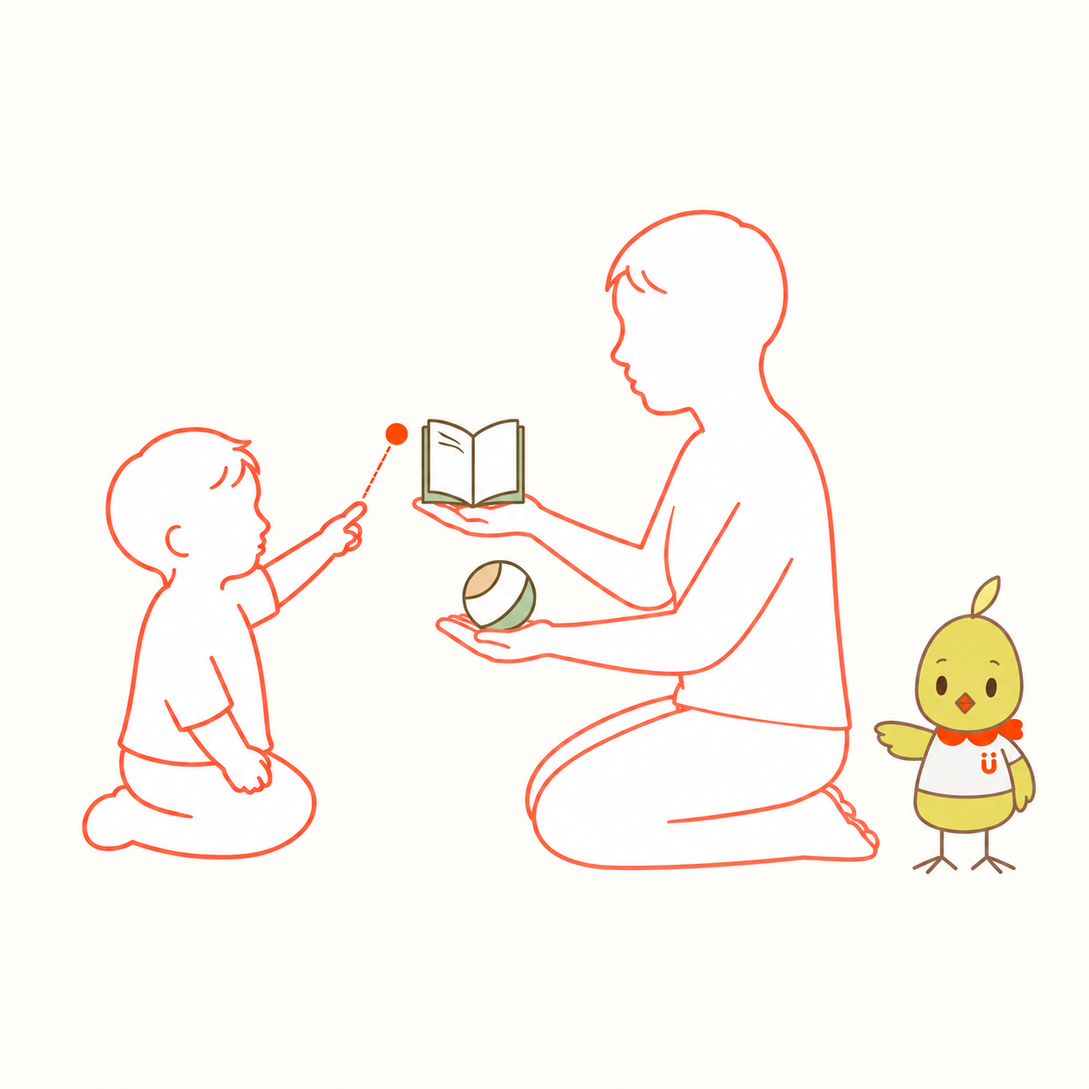
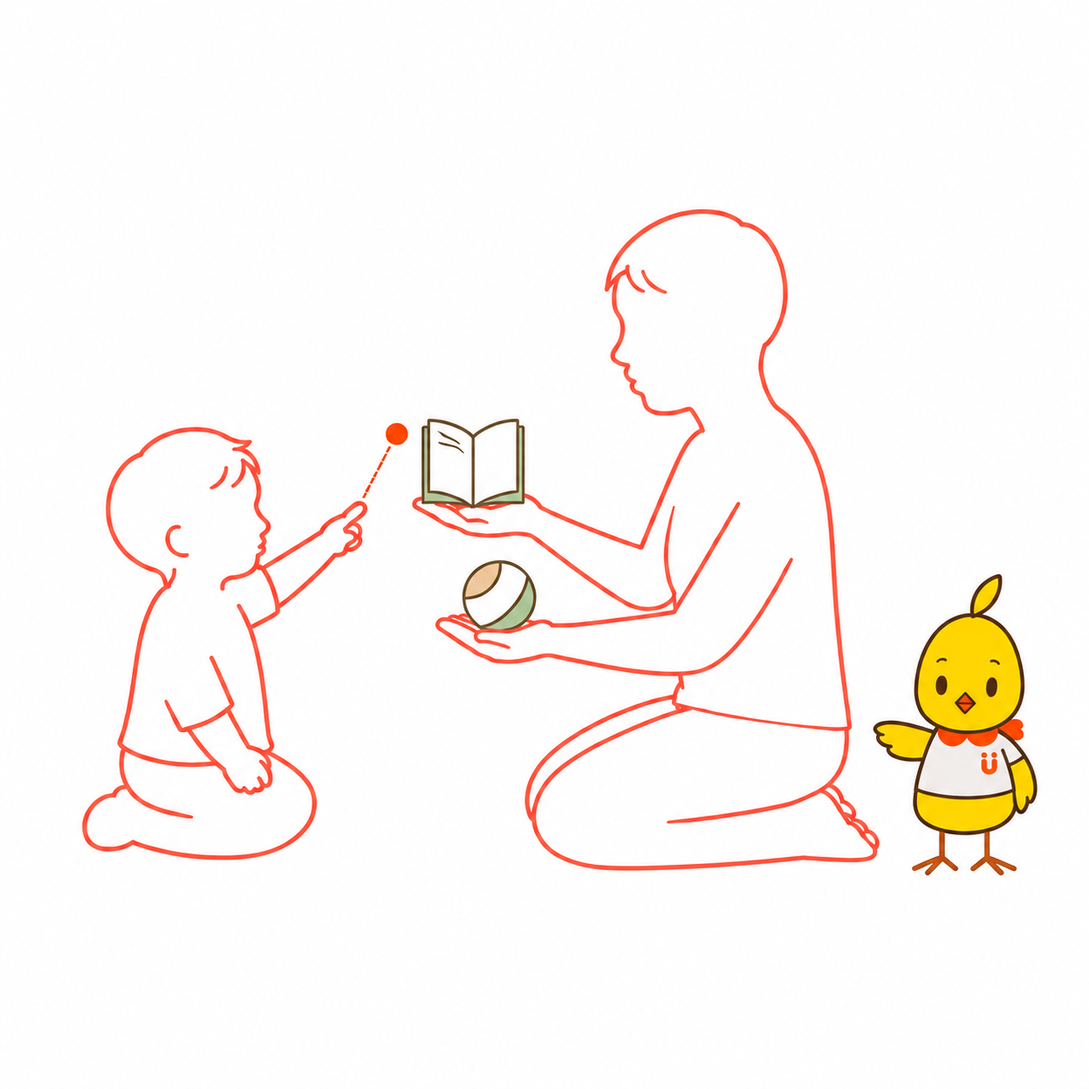
Unify Mimo palette and fix story text illustration overlap

diff --git a/planning/style-studies/character-reference/index.html b/planning/style-studies/character-reference/index.html
@@ -12,9 +12,9 @@
 .photoseenes{margin:28px 0 36px}.photoseenes>h3{font-size:23px;margin-bottom:8px}.photoseenes h3 small{font-size:13px;font-weight:400;color:#746760}.photoseenes>p{font-size:14px;max-width:900px}.photoscenegroup{margin:24px 0;scroll-margin-top:20px}.photoscenegroup h4{font-size:19px;margin:0 0 12px}.photoscenegrid{display:grid;grid-template-columns:repeat(2,minmax(0,1fr));gap:20px}.photoscenecard{margin:0;min-width:0;border:1px solid #e1d8d0;border-radius:10px;overflow:hidden;background:#fffdfa}.photoscenecard a{display:block}.photoscenecard img{display:block;width:100%;height:auto;aspect-ratio:3/2;object-fit:contain}.photoscenecard figcaption{padding:12px 14px}.photoscenecard figcaption b{font-size:16px;color:#291712}.photoscenecard figcaption p{font-size:12px;margin:5px 0 0}.photoscenecard a:focus-visible{outline:3px solid #975239;outline-offset:-3px}#scene-character-places{scroll-margin-top:20px}@media(max-width:650px){.photoscenegrid{grid-template-columns:1fr;gap:14px}}@media print{.photoscenecard{break-inside:avoid}}
 
 .growthscenerules{margin:28px 0;padding:20px;background:#fffdfa;border:1px solid #e1d8d0;border-radius:10px}.growthscenerules h4{font-size:19px}.growthscenerules .scenespec dd{font-size:14px;line-height:1.8}.growthscenerules .photoscenecard img{aspect-ratio:1;object-fit:contain}.growthscenerules>h3{margin-top:0}@media(max-width:650px){.growthscenerules{padding:14px}}
-</style><style>:is(#props-fine-motor,#props-sound,#props-sensory,#props-finger-play,#props-visual-tracking) .fine-motor-grid{display:grid;grid-template-columns:repeat(auto-fit,minmax(220px,1fr));gap:16px;margin:20px 0}:is(#props-fine-motor,#props-sound,#props-sensory,#props-finger-play,#props-visual-tracking) .propitem{margin:0;background:#fff;border:1px solid #e7dfd6;border-radius:16px;overflow:hidden}:is(#props-fine-motor,#props-sound,#props-sensory,#props-finger-play,#props-visual-tracking) img{display:block;width:100%;height:220px;object-fit:contain;padding:12px;box-sizing:border-box}:is(#props-fine-motor,#props-sound,#props-sensory,#props-finger-play,#props-visual-tracking) figcaption{padding:0 16px 16px}:is(#props-fine-motor,#props-sound,#props-sensory,#props-finger-play,#props-visual-tracking) figcaption h4{margin:8px 0}:is(#props-fine-motor,#props-sound,#props-sensory,#props-finger-play,#props-visual-tracking) figcaption p{font-size:13px}</style><style>#props-gen-movement .fine-motor-grid{display:grid;grid-template-columns:repeat(auto-fit,minmax(220px,1fr));gap:16px;margin:20px 0}#props-gen-movement .propitem{margin:0;background:#fff;border:1px solid #e7dfd6;border-radius:16px;overflow:hidden}#props-gen-movement img{display:block;width:100%;height:220px;object-fit:contain;padding:12px;box-sizing:border-box}#props-gen-movement figcaption{padding:0 16px 16px}#props-gen-movement figcaption h4{margin:8px 0}#props-gen-movement figcaption p{font-size:13px}</style></head><body><main><span class="eyebrow">HUGMAP / CHARACTER CONSISTENCY</span><h1>同じキャラクターで、物語を重ねる。</h1><div class="intro"><p>Mimo・Luke・Gen・LUMIと家族のキャラクター設定。三面図を造形の基準に、ポーズ・表情・小物・シーンを整理します。</p></div><nav aria-label="キャラクター"><button type="button" data-id="mimo" aria-pressed="true">Mimo</button><button type="button" data-id="luke" aria-pressed="false">Luke</button><button type="button" data-id="gen" aria-pressed="false">Gen</button><button type="button" data-id="lumi" aria-pressed="false">LUMI</button><button type="button" data-id="props" aria-pressed="false">小物一覧</button><button type="button" data-id="scenes" aria-pressed="false">シーン設計</button><button type="button" data-id="children" aria-pressed="false">子どもシルエット</button><button type="button" data-id="adults" aria-pressed="false">大人シルエット</button><button type="button" data-id="family" aria-pressed="false">家族</button><button type="button" data-id="usage" aria-pressed="false">利用ガイド</button></nav><section class="character" id="mimo"><header class="sheethead"><div><span class="eyebrow">CHARACTER REFERENCE</span><h2>Mimo <small>ことり先生</small></h2><p>小さな表現に気づき、聞いて、返して、一緒に待つ。</p></div></header><div class="board"><div><figure><svg viewBox="150 190 750 245" role="img" aria-label="基準の三面図：正面・側面・背面"><image href="assets/turnaround-brand-mark.svg?asset=b4380edcb9a4" width="1024" height="1536"></image></svg><p class="note">Uマークは全員共通で #FF511B、不透明の単色・輪郭線なし。正面は画面から見て右胸の上（本人の左胸）、背面は服の背中中央。側面は該当面が見える場合だけ表示し、見えないマークを袖・腹・襟へ移さない。公式U＋2点の形と縦横比を維持する。</p><figcaption>基準の三面図：正面・側面・背面（造形の原図）</figcaption></figure><aside class="animallines"><b>共通の線基準 · #A77C65</b><div class="lineswatches"><span><svg viewBox="0 0 64 16" role="img" aria-label="外輪郭 4px"><path d="M4 8 H60" stroke="#A77C65" stroke-width="4" stroke-linecap="round"></path></svg>外輪郭 4px</span><span><svg viewBox="0 0 64 16" role="img" aria-label="内部 3px"><path d="M4 8 H60" stroke="#A77C65" stroke-width="3" stroke-linecap="round"></path></svg>内部 3px</span><span><svg viewBox="0 0 64 16" role="img" aria-label="細部 2.5px"><path d="M4 8 H60" stroke="#A77C65" stroke-width="2.5" stroke-linecap="round"></path></svg>細部 2.5px</span><span><svg viewBox="0 0 64 16" role="img" aria-label="目・鼻・眼鏡 #6B5143"><path d="M4 8 H60" stroke="#6B5143" stroke-width="4" stroke-linecap="round"></path></svg>目・鼻・眼鏡 #6B5143</span></div><details><summary>三面図で決め、ポーズ・表情で確認</summary><p>1536×1024の同一場面で、全高Mimo 340／Luke 440／Gen 488pxを配置するときの共通線幅。拡大・縮小は線も同倍率。座った高さや頭部拡大図に合わせて別の線幅を決めない。</p><p>眼鏡の線幅は外輪郭と同じ、色は #6B5143。服・耳内側・尾の巻き線は内部線。眉・口・前歯・くちばしの区切りは細部線。丸い線端・角、不透明度100%。目・鼻の塗りは #6B5143。眉・口・くちばしは #A77C65。</p><p class="note">三面図は造形、線見本は制作仕様の基準です。ポーズ・表情・小物と三面図の表示見本を更新済み。厳密な色・線幅・造形一致は未認証。画像から旧線色を採取しないでください。</p></details></aside></div><div class="spec"><h3>基本造形・共通ルール</h3><p>輪郭・顔の配置・冠羽・翼・鳥脚は、上の三面図で固定。新しい表情や動作でも同じ比率を保ちます。衣装は下の「装飾・小物」にまとめています。</p><p class="note">三面図＝見た目の基準／寸法図＝数値の参照。使用例はポーズと場面の参考です。</p><details><summary><b>寸法・参照画像</b><span>詳細</span></summary><p>全高340／頭122×133／目10×20／目中心間55／嘴25×24 px。1536×1024の原図記載値です。</p><p><a href="assets/user-approved-measurements.png" target="_blank">寸法の原図</a> · <a href="assets/user-approved-turnaround.png" target="_blank">全員の三面図</a></p></details><h3>整理する4つの要素</h3><div class="categorylinks"><a href="#mimo-pose">01 ポーズ</a><a href="#mimo-expression">02 表情</a><a href="#mimo-decoration">03 装飾・小物</a><a href="#mimo-background">04 シーン背景</a></div></div></div><article class="categoryblock" id="mimo-child"><header><span class="eyebrow">CHARACTER STUDY</span><h3>子ども版Mimo〈制作案〉</h3></header><p>Mimoの白い身体・翼・鳥脚とオレンジのスカーフを引き継ぎ、頭の輪郭は親の正面造形を縮小する方針で揃え、頭頂には2枚の葉っぱ、目は元の縦長の楕円に小さな白いハイライト、頬は淡いピンクに短い斜め線を添え、口元は角を丸めた小さなくちばしに。全高は元のMimoの約80％を目安にした案です。</p><figure><a href="assets/mimo-child-study.png?asset=95b813d4b2" target="_blank"><img class="poseoutput" src="assets/mimo-child-study.png?asset=95b813d4b2" alt="元のMimoと小さな子ども版の比較。子ども版は双葉とピンクの頬を持ち、親子を同じ正面ポーズで並べている" loading="lazy"></a><figcaption>左：元のMimo ／ 右：子ども版。同じ正面ポーズで頭の輪郭と大きさを比較する制作案。</figcaption></figure>
-<div id="mimo-parent-child-color"><h4>親子のカラー版</h4><p>体・冠羽：#D7C862 ／ トップス：#DCD5D2。親子で黄色を揃えたカラー案。</p><figure><a href="assets/mimo-parent-child-color.png" target="_blank"><img class="poseoutput" src="assets/mimo-parent-child-color.png" alt="Mimoの親子のカラー版。左が親、右が子ども" loading="lazy"></a><figcaption>左：Mimo ／ 右：子ども版。配色検討用の別画像。</figcaption></figure></div>
-</article><article class="posestudy categoryblock" id="mimo-pose"><h3>代表ポーズ </h3><p>白い身体・服／輪郭・表情線 #A77C65／目・鼻 #6B5143／丸襟状スカーフ・胸の記号 #FF511B</p><figure><a href="assets/mimo-representative-poses.png?asset=3817d1dd0b" target="_blank"><img class="poseoutput" src="assets/mimo-representative-poses.png?asset=3817d1dd0b" alt="Mimoの代表ポーズ3種・三面図を参照した掲載見本"></a><figcaption>01 まねる ／ 02 聞く ／ 03 受け止める｜頭部の照合用に正面へ統一</figcaption></figure></article><article class="categoryblock expressionstudy" id="mimo-expression"><header><h3>表情 </h3></header><figure><a href="assets/mimo-expressions.png?asset=9c7004e357" target="_blank"><img class="expressionoutput" src="assets/mimo-expressions.png?asset=9c7004e357" alt="Mimoの表情：通常、聞く、気遣う、ほっとする"></a></figure><div class="expressionlabels"><div><b>01 通常</b><span>三面図の正面を基準</span></div><div><b>02 聞く</b><span>AAC例の注目から</span></div><div><b>03 気遣う</b><span>拒否の例の眉から</span></div><div><b>04 ほっとする</b><span>目を閉じて安心する</span></div></div></article><article class="categoryblock" id="mimo-decoration"><header><span class="eyebrow">03</span><h3>衣装・小物</h3></header><p>白い服の袖・裾と胸の記号の形・位置は三面図、記号の色は配色表で固定。スカーフ・絵カード・ベルは小物一覧にまとめています。</p><button type="button" data-props-owner="mimo">Mimoの道具10点・小物を見る</button></article><article class="categoryblock" id="mimo-background"><header><span class="eyebrow">04</span><h3>シーン背景</h3><p>発達フレームの配置例。以前作った音楽室・お話の木は「シーン設計」に掲載。</p></header><div class="compactcopy"><div><p class="note">代表ポーズとシーン設計を参照。</p><h4>既存資料から抽出</h4><ul><li>背景：白〜ごく淡い暖色の紙調、弱いにじみ。描き込まれた室内や風景は省略。</li><li>足元：薄い線や影で接地を示す。</li><li>主役：子ども・保護者は淡い橙の輪郭。Mimoは小さく脇に配置。</li><li>道具：絵カードなど、その場面の行動に必要なものを中心に置く。</li><li>補助記号：点・短い線でやりとりや反応を示す。色や数は場面によって異なる。</li></ul><h4>引き継ぐルール</h4><p>これは既存の発達フレームの傾向。三面図の造形仕様とは分け、他媒体へ自動で固定しない。</p><h4>場面ごとの確認</h4><p>背景量は利用ガイドに従う。Mimoと人物の大きさ、補助記号は場面ごとに確認する。</p></div></div></article><p><button type="button" data-scene-owner="mimo">Mimoのシーン設計を見る</button></p></section><section class="character" id="gen" hidden=""><header class="sheethead"><div><span class="eyebrow">CHARACTER REFERENCE</span><h2>Gen <small>うさぎ先生</small></h2><p>その子に合う量・速さ・方法を探す伴走型の応援者</p></div></header><div class="board"><div><figure><svg viewBox="0 480 1024 340" role="img" aria-label="Genの基準三面図"><image href="assets/turnaround-brand-mark.svg?asset=b4380edcb9a4" width="1024" height="1536"></image></svg><p class="note">Uマークは全員共通で #FF511B、不透明の単色・輪郭線なし。正面は画面から見て右胸の上（本人の左胸）、背面は服の背中中央。側面は該当面が見える場合だけ表示し、見えないマークを袖・腹・襟へ移さない。公式U＋2点の形と縦横比を維持する。</p><figcaption>基準の三面図：正面・側面・背面（造形の原図）</figcaption></figure><aside class="animallines"><b>共通の線基準 · #A77C65</b><div class="lineswatches"><span><svg viewBox="0 0 64 16" role="img" aria-label="外輪郭 4px"><path d="M4 8 H60" stroke="#A77C65" stroke-width="4" stroke-linecap="round"></path></svg>外輪郭 4px</span><span><svg viewBox="0 0 64 16" role="img" aria-label="内部 3px"><path d="M4 8 H60" stroke="#A77C65" stroke-width="3" stroke-linecap="round"></path></svg>内部 3px</span><span><svg viewBox="0 0 64 16" role="img" aria-label="細部 2.5px"><path d="M4 8 H60" stroke="#A77C65" stroke-width="2.5" stroke-linecap="round"></path></svg>細部 2.5px</span><span><svg viewBox="0 0 64 16" role="img" aria-label="目・鼻・眼鏡 #6B5143"><path d="M4 8 H60" stroke="#6B5143" stroke-width="4" stroke-linecap="round"></path></svg>目・鼻・眼鏡 #6B5143</span></div><details><summary>三面図で決め、ポーズ・表情で確認</summary><p>1536×1024の同一場面で、全高Mimo 340／Luke 440／Gen 488pxを配置するときの共通線幅。拡大・縮小は線も同倍率。座った高さや頭部拡大図に合わせて別の線幅を決めない。</p><p>眼鏡の線幅は外輪郭と同じ、色は #6B5143。服・耳内側・尾の巻き線は内部線。眉・口・前歯・くちばしの区切りは細部線。丸い線端・角、不透明度100%。目・鼻の塗りは #6B5143。眉・口・くちばしは #A77C65。</p><p class="note">三面図は造形、線見本は制作仕様の基準です。ポーズ・表情・小物と三面図の表示見本を更新済み。厳密な色・線幅・造形一致は未認証。画像から旧線色を採取しないでください。</p></details></aside></div><div class="spec"><h3>変えない核 <span>W / E</span></h3><p class="core">飛び出す → 気づく → 相手に合わせる</p><dl><dt>強み</dt><dd>最初の一歩を楽しく始める</dd><dt>強みの裏返し</dt><dd>張り切り屋。身体が先に出るが、気づいて速度と距離を変えられる。</dd><dt>造形の手がかり</dt><dd>細身／角丸四角の顔／小さな鼻／囲みのない小さな口</dd><dt>動き</dt><dd>足と耳が先に動く。前傾から低い姿勢へ。</dd><dt>避ける姿</dt><dd>成功するまで励ます、相手を急かす、乱暴さだけで個性を表す。</dd></dl></div></div><article class="categoryblock" id="gen-child"><header><span class="eyebrow">CHARACTER STUDY</span><h3>子ども版Gen</h3></header><p>Genの頭と身体の造形を約75％に縮小する方針の子ども版。親子とも滑らかな輪郭線で統一します。子どもの目は縦長の楕円を保ち、小さな白いハイライトを加えています。両耳の付け根を立て、先の約3分の1をふわっと折り、左右の角度に少し差をつけ、ほっぺには子ども版Mimoと同じ淡いピンクと短い斜め線を入れています。耳の姿勢が違うため、耳先までの全高比とは分けて比較します。</p><figure><a href="assets/gen-child-study.png" target="_blank"><img class="poseoutput" src="assets/gen-child-study.png" alt="親のGenと、両耳の先がふわっと折れた小さな子ども版Gen。ピンクの頬に短い斜め線" loading="lazy"></a><figcaption>左：Gen ／ 右：子ども版。白背景の造形比較案。</figcaption></figure>
+</style><style>:is(#props-fine-motor,#props-sound,#props-sensory,#props-finger-play,#props-visual-tracking) .fine-motor-grid{display:grid;grid-template-columns:repeat(auto-fit,minmax(220px,1fr));gap:16px;margin:20px 0}:is(#props-fine-motor,#props-sound,#props-sensory,#props-finger-play,#props-visual-tracking) .propitem{margin:0;background:#fff;border:1px solid #e7dfd6;border-radius:16px;overflow:hidden}:is(#props-fine-motor,#props-sound,#props-sensory,#props-finger-play,#props-visual-tracking) img{display:block;width:100%;height:220px;object-fit:contain;padding:12px;box-sizing:border-box}:is(#props-fine-motor,#props-sound,#props-sensory,#props-finger-play,#props-visual-tracking) figcaption{padding:0 16px 16px}:is(#props-fine-motor,#props-sound,#props-sensory,#props-finger-play,#props-visual-tracking) figcaption h4{margin:8px 0}:is(#props-fine-motor,#props-sound,#props-sensory,#props-finger-play,#props-visual-tracking) figcaption p{font-size:13px}</style><style>#props-gen-movement .fine-motor-grid{display:grid;grid-template-columns:repeat(auto-fit,minmax(220px,1fr));gap:16px;margin:20px 0}#props-gen-movement .propitem{margin:0;background:#fff;border:1px solid #e7dfd6;border-radius:16px;overflow:hidden}#props-gen-movement img{display:block;width:100%;height:220px;object-fit:contain;padding:12px;box-sizing:border-box}#props-gen-movement figcaption{padding:0 16px 16px}#props-gen-movement figcaption h4{margin:8px 0}#props-gen-movement figcaption p{font-size:13px}</style></head><body><main><span class="eyebrow">HUGMAP / CHARACTER CONSISTENCY</span><h1>同じキャラクターで、物語を重ねる。</h1><div class="intro"><p>Mimo・Luke・Gen・LUMIと家族のキャラクター設定。三面図を造形の基準に、ポーズ・表情・小物・シーンを整理します。</p></div><nav aria-label="キャラクター"><button type="button" data-id="mimo" aria-pressed="true">Mimo</button><button type="button" data-id="luke" aria-pressed="false">Luke</button><button type="button" data-id="gen" aria-pressed="false">Gen</button><button type="button" data-id="lumi" aria-pressed="false">LUMI</button><button type="button" data-id="props" aria-pressed="false">小物一覧</button><button type="button" data-id="scenes" aria-pressed="false">シーン設計</button><button type="button" data-id="children" aria-pressed="false">子どもシルエット</button><button type="button" data-id="adults" aria-pressed="false">大人シルエット</button><button type="button" data-id="family" aria-pressed="false">家族</button><button type="button" data-id="usage" aria-pressed="false">利用ガイド</button></nav><section class="character" id="mimo"><header class="sheethead"><div><span class="eyebrow">CHARACTER REFERENCE</span><h2>Mimo <small>ことり先生</small></h2><p>小さな表現に気づき、聞いて、返して、一緒に待つ。</p></div></header><div class="board"><div><figure><svg viewBox="150 190 750 245" role="img" aria-label="基準の三面図：正面・側面・背面"><image href="assets/turnaround-brand-mark.svg?asset=b4380edcb9a4" width="1024" height="1536"></image></svg><p class="note">Uマークは全員共通で #FF511B、不透明の単色・輪郭線なし。正面は画面から見て右胸の上（本人の左胸）、背面は服の背中中央。側面は該当面が見える場合だけ表示し、見えないマークを袖・腹・襟へ移さない。公式U＋2点の形と縦横比を維持する。</p><figcaption>基準の三面図：正面・側面・背面（造形の原図）</figcaption></figure><aside class="animallines"><b>共通の線基準 · #A77C65</b><div class="lineswatches"><span><svg viewBox="0 0 64 16" role="img" aria-label="外輪郭 4px"><path d="M4 8 H60" stroke="#A77C65" stroke-width="4" stroke-linecap="round"></path></svg>外輪郭 4px</span><span><svg viewBox="0 0 64 16" role="img" aria-label="内部 3px"><path d="M4 8 H60" stroke="#A77C65" stroke-width="3" stroke-linecap="round"></path></svg>内部 3px</span><span><svg viewBox="0 0 64 16" role="img" aria-label="細部 2.5px"><path d="M4 8 H60" stroke="#A77C65" stroke-width="2.5" stroke-linecap="round"></path></svg>細部 2.5px</span><span><svg viewBox="0 0 64 16" role="img" aria-label="目・鼻・眼鏡 #6B5143"><path d="M4 8 H60" stroke="#6B5143" stroke-width="4" stroke-linecap="round"></path></svg>目・鼻・眼鏡 #6B5143</span></div><details><summary>三面図で決め、ポーズ・表情で確認</summary><p>1536×1024の同一場面で、全高Mimo 340／Luke 440／Gen 488pxを配置するときの共通線幅。拡大・縮小は線も同倍率。座った高さや頭部拡大図に合わせて別の線幅を決めない。</p><p>眼鏡の線幅は外輪郭と同じ、色は #6B5143。服・耳内側・尾の巻き線は内部線。眉・口・前歯・くちばしの区切りは細部線。丸い線端・角、不透明度100%。目・鼻の塗りは #6B5143。眉・口・くちばしは #A77C65。</p><p class="note">三面図は造形、線見本は制作仕様の基準です。ポーズ・表情・小物と三面図の表示見本を更新済み。厳密な色・線幅・造形一致は未認証。画像から旧線色を採取しないでください。</p></details></aside></div><div class="spec"><div class="notice"><b>Mimoの採用配色</b><p><span style="display:inline-block;width:1.3em;height:1.3em;background:#FED304;border:1px solid #d4c7be;vertical-align:middle"></span> 体・冠羽・翼：蒲公英色 #FED304<br><span style="display:inline-block;width:1.3em;height:1.3em;background:#F4F1F0;border:1px solid #d4c7be;vertical-align:middle"></span> 服：#F4F1F0</p><p class="note">白い三面図・ポーズ・表情見本は造形確認用。色はこの指定と下の親子カラー版を参照。蒲公英色は <a href="https://icd-color.com/color-dict/#list-item14">ICD色名辞典の掲載色</a>を基準にしています。</p></div><h3>基本造形・共通ルール</h3><p>輪郭・顔の配置・冠羽・翼・鳥脚は、上の三面図で固定。新しい表情や動作でも同じ比率を保ちます。衣装は下の「装飾・小物」にまとめています。</p><p class="note">三面図＝見た目の基準／寸法図＝数値の参照。使用例はポーズと場面の参考です。</p><details><summary><b>寸法・参照画像</b><span>詳細</span></summary><p>全高340／頭122×133／目10×20／目中心間55／嘴25×24 px。1536×1024の原図記載値です。</p><p><a href="assets/user-approved-measurements.png" target="_blank">寸法の原図</a> · <a href="assets/user-approved-turnaround.png" target="_blank">全員の三面図</a></p></details><h3>整理する4つの要素</h3><div class="categorylinks"><a href="#mimo-pose">01 ポーズ</a><a href="#mimo-expression">02 表情</a><a href="#mimo-decoration">03 装飾・小物</a><a href="#mimo-background">04 シーン背景</a></div></div></div><article class="categoryblock" id="mimo-child"><header><span class="eyebrow">CHARACTER STUDY</span><h3>子ども版Mimo〈制作案〉</h3></header><p>Mimoの白い身体・翼・鳥脚とオレンジのスカーフを引き継ぎ、頭の輪郭は親の正面造形を縮小する方針で揃え、頭頂には2枚の葉っぱ、目は元の縦長の楕円に小さな白いハイライト、頬は淡いピンクに短い斜め線を添え、口元は角を丸めた小さなくちばしに。全高は元のMimoの約80％を目安にした案です。</p><figure><a href="assets/mimo-child-study.png?asset=95b813d4b2" target="_blank"><img class="poseoutput" src="assets/mimo-child-study.png?asset=95b813d4b2" alt="元のMimoと小さな子ども版の比較。子ども版は双葉とピンクの頬を持ち、親子を同じ正面ポーズで並べている" loading="lazy"></a><figcaption>左：元のMimo ／ 右：子ども版。同じ正面ポーズで頭の輪郭と大きさを比較する制作案。</figcaption></figure>
+<div id="mimo-parent-child-color"><h4>親子のカラー版</h4><p>体・冠羽・翼：蒲公英色 #FED304 ／ トップス：#F4F1F0（themeのcomponentFifthBackground）。絵本と共通の採用配色。親子とも同じ色で揃えます。</p><figure><a href="assets/mimo-parent-child-color.png?asset=262c269e9a" target="_blank"><img class="poseoutput" src="assets/mimo-parent-child-color.png?asset=262c269e9a" alt="Mimoの親子のカラー版。左が親、右が子ども" loading="lazy"></a><figcaption>左：Mimo ／ 右：子ども版。蒲公英色の体と、白に近いグレーの服。</figcaption></figure></div>
+</article><article class="posestudy categoryblock" id="mimo-pose"><h3>代表ポーズ </h3><p>下の白い見本は造形・ポーズの確認用。カラー制作は体 #FED304／服 #F4F1F0／輪郭・表情線 #A77C65／目・鼻 #6B5143／丸襟状スカーフ・胸の記号 #FF511B。</p><figure><a href="assets/mimo-representative-poses.png?asset=3817d1dd0b" target="_blank"><img class="poseoutput" src="assets/mimo-representative-poses.png?asset=3817d1dd0b" alt="Mimoの代表ポーズ3種・三面図を参照した掲載見本"></a><figcaption>01 まねる ／ 02 聞く ／ 03 受け止める｜頭部の照合用に正面へ統一</figcaption></figure></article><article class="categoryblock expressionstudy" id="mimo-expression"><header><h3>表情 </h3></header><figure><a href="assets/mimo-expressions.png?asset=9c7004e357" target="_blank"><img class="expressionoutput" src="assets/mimo-expressions.png?asset=9c7004e357" alt="Mimoの表情：通常、聞く、気遣う、ほっとする"></a></figure><div class="expressionlabels"><div><b>01 通常</b><span>三面図の正面を基準</span></div><div><b>02 聞く</b><span>AAC例の注目から</span></div><div><b>03 気遣う</b><span>拒否の例の眉から</span></div><div><b>04 ほっとする</b><span>目を閉じて安心する</span></div></div></article><article class="categoryblock" id="mimo-decoration"><header><span class="eyebrow">03</span><h3>衣装・小物</h3></header><p>白い服の袖・裾と胸の記号の形・位置は三面図、記号の色は配色表で固定。スカーフ・絵カード・ベルは小物一覧にまとめています。</p><button type="button" data-props-owner="mimo">Mimoの道具10点・小物を見る</button></article><article class="categoryblock" id="mimo-background"><header><span class="eyebrow">04</span><h3>シーン背景</h3><p>発達フレームの配置例。以前作った音楽室・お話の木は「シーン設計」に掲載。</p></header><div class="compactcopy"><div><p class="note">代表ポーズとシーン設計を参照。</p><h4>既存資料から抽出</h4><ul><li>背景：白〜ごく淡い暖色の紙調、弱いにじみ。描き込まれた室内や風景は省略。</li><li>足元：薄い線や影で接地を示す。</li><li>主役：子ども・保護者は淡い橙の輪郭。Mimoは小さく脇に配置。</li><li>道具：絵カードなど、その場面の行動に必要なものを中心に置く。</li><li>補助記号：点・短い線でやりとりや反応を示す。色や数は場面によって異なる。</li></ul><h4>引き継ぐルール</h4><p>これは既存の発達フレームの傾向。三面図の造形仕様とは分け、他媒体へ自動で固定しない。</p><h4>場面ごとの確認</h4><p>背景量は利用ガイドに従う。Mimoと人物の大きさ、補助記号は場面ごとに確認する。</p></div></div></article><p><button type="button" data-scene-owner="mimo">Mimoのシーン設計を見る</button></p></section><section class="character" id="gen" hidden=""><header class="sheethead"><div><span class="eyebrow">CHARACTER REFERENCE</span><h2>Gen <small>うさぎ先生</small></h2><p>その子に合う量・速さ・方法を探す伴走型の応援者</p></div></header><div class="board"><div><figure><svg viewBox="0 480 1024 340" role="img" aria-label="Genの基準三面図"><image href="assets/turnaround-brand-mark.svg?asset=b4380edcb9a4" width="1024" height="1536"></image></svg><p class="note">Uマークは全員共通で #FF511B、不透明の単色・輪郭線なし。正面は画面から見て右胸の上（本人の左胸）、背面は服の背中中央。側面は該当面が見える場合だけ表示し、見えないマークを袖・腹・襟へ移さない。公式U＋2点の形と縦横比を維持する。</p><figcaption>基準の三面図：正面・側面・背面（造形の原図）</figcaption></figure><aside class="animallines"><b>共通の線基準 · #A77C65</b><div class="lineswatches"><span><svg viewBox="0 0 64 16" role="img" aria-label="外輪郭 4px"><path d="M4 8 H60" stroke="#A77C65" stroke-width="4" stroke-linecap="round"></path></svg>外輪郭 4px</span><span><svg viewBox="0 0 64 16" role="img" aria-label="内部 3px"><path d="M4 8 H60" stroke="#A77C65" stroke-width="3" stroke-linecap="round"></path></svg>内部 3px</span><span><svg viewBox="0 0 64 16" role="img" aria-label="細部 2.5px"><path d="M4 8 H60" stroke="#A77C65" stroke-width="2.5" stroke-linecap="round"></path></svg>細部 2.5px</span><span><svg viewBox="0 0 64 16" role="img" aria-label="目・鼻・眼鏡 #6B5143"><path d="M4 8 H60" stroke="#6B5143" stroke-width="4" stroke-linecap="round"></path></svg>目・鼻・眼鏡 #6B5143</span></div><details><summary>三面図で決め、ポーズ・表情で確認</summary><p>1536×1024の同一場面で、全高Mimo 340／Luke 440／Gen 488pxを配置するときの共通線幅。拡大・縮小は線も同倍率。座った高さや頭部拡大図に合わせて別の線幅を決めない。</p><p>眼鏡の線幅は外輪郭と同じ、色は #6B5143。服・耳内側・尾の巻き線は内部線。眉・口・前歯・くちばしの区切りは細部線。丸い線端・角、不透明度100%。目・鼻の塗りは #6B5143。眉・口・くちばしは #A77C65。</p><p class="note">三面図は造形、線見本は制作仕様の基準です。ポーズ・表情・小物と三面図の表示見本を更新済み。厳密な色・線幅・造形一致は未認証。画像から旧線色を採取しないでください。</p></details></aside></div><div class="spec"><h3>変えない核 <span>W / E</span></h3><p class="core">飛び出す → 気づく → 相手に合わせる</p><dl><dt>強み</dt><dd>最初の一歩を楽しく始める</dd><dt>強みの裏返し</dt><dd>張り切り屋。身体が先に出るが、気づいて速度と距離を変えられる。</dd><dt>造形の手がかり</dt><dd>細身／角丸四角の顔／小さな鼻／囲みのない小さな口</dd><dt>動き</dt><dd>足と耳が先に動く。前傾から低い姿勢へ。</dd><dt>避ける姿</dt><dd>成功するまで励ます、相手を急かす、乱暴さだけで個性を表す。</dd></dl></div></div><article class="categoryblock" id="gen-child"><header><span class="eyebrow">CHARACTER STUDY</span><h3>子ども版Gen</h3></header><p>Genの頭と身体の造形を約75％に縮小する方針の子ども版。親子とも滑らかな輪郭線で統一します。子どもの目は縦長の楕円を保ち、小さな白いハイライトを加えています。両耳の付け根を立て、先の約3分の1をふわっと折り、左右の角度に少し差をつけ、ほっぺには子ども版Mimoと同じ淡いピンクと短い斜め線を入れています。耳の姿勢が違うため、耳先までの全高比とは分けて比較します。</p><figure><a href="assets/gen-child-study.png" target="_blank"><img class="poseoutput" src="assets/gen-child-study.png" alt="親のGenと、両耳の先がふわっと折れた小さな子ども版Gen。ピンクの頬に短い斜め線" loading="lazy"></a><figcaption>左：Gen ／ 右：子ども版。白背景の造形比較案。</figcaption></figure>
 <div id="gen-parent-child-color"><h4>親子のカラー版</h4><p>白い毛に、トップス #7D2741 と黄色いスカーフを合わせたカラー案。親子とも袖と裾の広がりを抑え、体に沿う形に調整。</p><figure><a href="assets/gen-parent-child-color.png?asset=85d66b477c" target="_blank"><img class="poseoutput" src="assets/gen-parent-child-color.png?asset=85d66b477c" alt="Genの親子のカラー版。左が親、右が子ども" loading="lazy"></a><figcaption>左：Gen ／ 右：子ども版。配色検討用の別画像。</figcaption></figure></div>
 </article><article class="posestudy" id="poses-gen"><h3>代表ポーズ</h3><p>白い身体・服／輪郭・表情線 #A77C65／目・鼻 #6B5143／首飾り #D7C862／淡い黄色のボール／淡いピンクの耳内側／胸の記号 #FF511B</p><figure><a href="assets/gen-representative-poses.png?asset=bdd81dd9eb" target="_blank"><img class="poseoutput" src="assets/gen-representative-poses.png?asset=bdd81dd9eb" alt="Genの代表ポーズ3種・三面図を参照した掲載見本"></a><figcaption>01 ボールを返す ／ 02 後ろから走る ／ 03 休む</figcaption></figure></article><article class="categoryblock expressionstudy" id="gen-expression"><header><h3>表情 <span>4種</span></h3></header><figure><a href="assets/gen-expressions.png?asset=a325ff78c4" target="_blank"><img class="expressionoutput" src="assets/gen-expressions.png?asset=a325ff78c4" alt="Genの表情：通常、楽しむ、安心する、様子をうかがう"></a></figure><div class="expressionlabels"><div><b>01 通常</b><span>三面図の正面を基準</span></div><div><b>02 楽しむ</b><span>ボール交換の例から</span></div><div><b>03 安心する</b><span>寄りかかる休息の例から</span></div><div><b>04 様子をうかがう</b><span>相手のペースを確認する</span></div></div></article><p><button type="button" data-props-owner="gen">Genの道具10点・小物を見る</button></p><p><button type="button" data-scene-owner="gen">Genのシーン設計を見る</button></p></section><section class="character" id="luke" hidden=""><header class="sheethead"><div><span class="eyebrow">CHARACTER REFERENCE</span><h2>Luke <small>りす先生</small></h2><p>道具と環境を変え、できる形を増やす探偵兼発明家</p></div></header><div class="board"><div><figure><svg viewBox="0 870 1024 310" role="img" aria-label="Lukeの基準三面図"><image href="assets/turnaround-brand-mark.svg?asset=b4380edcb9a4" width="1024" height="1536"></image></svg><p class="note">Uマークは全員共通で #FF511B、不透明の単色・輪郭線なし。正面は画面から見て右胸の上（本人の左胸）、背面は服の背中中央。側面は該当面が見える場合だけ表示し、見えないマークを袖・腹・襟へ移さない。公式U＋2点の形と縦横比を維持する。</p><figcaption>基準の三面図：正面・側面・背面（造形の原図）</figcaption></figure><aside class="animallines"><b>共通の線基準 · #A77C65</b><div class="lineswatches"><span><svg viewBox="0 0 64 16" role="img" aria-label="外輪郭 4px"><path d="M4 8 H60" stroke="#A77C65" stroke-width="4" stroke-linecap="round"></path></svg>外輪郭 4px</span><span><svg viewBox="0 0 64 16" role="img" aria-label="内部 3px"><path d="M4 8 H60" stroke="#A77C65" stroke-width="3" stroke-linecap="round"></path></svg>内部 3px</span><span><svg viewBox="0 0 64 16" role="img" aria-label="細部 2.5px"><path d="M4 8 H60" stroke="#A77C65" stroke-width="2.5" stroke-linecap="round"></path></svg>細部 2.5px</span><span><svg viewBox="0 0 64 16" role="img" aria-label="目・鼻・眼鏡 #6B5143"><path d="M4 8 H60" stroke="#6B5143" stroke-width="4" stroke-linecap="round"></path></svg>目・鼻・眼鏡 #6B5143</span></div><details><summary>三面図で決め、ポーズ・表情で確認</summary><p>1536×1024の同一場面で、全高Mimo 340／Luke 440／Gen 488pxを配置するときの共通線幅。拡大・縮小は線も同倍率。座った高さや頭部拡大図に合わせて別の線幅を決めない。</p><p>眼鏡の線幅は外輪郭と同じ、色は #6B5143。服・耳内側・尾の巻き線は内部線。眉・口・前歯・くちばしの区切りは細部線。丸い線端・角、不透明度100%。目・鼻の塗りは #6B5143。眉・口・くちばしは #A77C65。</p><p class="note">三面図は造形、線見本は制作仕様の基準です。ポーズ・表情・小物と三面図の表示見本を更新済み。厳密な色・線幅・造形一致は未認証。画像から旧線色を採取しないでください。</p></details></aside></div><div class="spec"><h3>変えない核 <span>W / E</span></h3><p class="core">観察 → まず試す → 失敗から選び直す</p><dl><dt>強み</dt><dd>失敗を怖がらず、別の方法を発明する</dd><dt>強みの裏返し</dt><dd>試したがり。道具を出しすぎるが、不要なものをしまってやり直せる。</dd><dt>造形の手がかり</dt><dd>Genより太い胴体／胸・腹・腰・脚の量感／細い眉／大きな尻尾</dd><dt>動き</dt><dd>片手と顔が先に動き、発見や失敗が尻尾に出る。</dd><dt>避ける姿</dt><dd>道具を渡すだけ、万能発明家、失敗を笑われる役。</dd></dl></div></div><article class="categoryblock" id="luke-child"><header><span class="eyebrow">CHARACTER STUDY</span><h3>子ども版Luke〈制作案〉</h3></header><p>丸眼鏡と巻いたしっぽ、ベストと黄色いスカーフを引き継ぎ、大きさは親の約75％を目安に。耳先の毛束を少し短くし、ほっぺは淡いピンクと短い斜め線、目には小さな白いハイライトを加えています。親子とも滑らかな輪郭線で揃えた案です。</p><figure><a href="assets/luke-child-study.png" target="_blank"><img class="poseoutput" src="assets/luke-child-study.png" alt="親のLukeと小さな子ども版Luke。丸眼鏡と巻いたしっぽ、ピンクの頬、目の白いハイライト" loading="lazy"></a><figcaption>左：Luke ／ 右：子ども版。白背景の造形比較案。</figcaption></figure>
 <div id="luke-parent-child-color"><h4>親子のカラー版</h4><p>体：#FF511B ／ ベスト：#DCD5D2。頭は額から目の周りまでオレンジを広げ、口元とあごに白を残したカラー案。お腹・手足・しっぽの内側は広い白を維持。</p><figure><a href="assets/luke-parent-child-color.png?asset=a6cd9bf4da" target="_blank"><img class="poseoutput" src="assets/luke-parent-child-color.png?asset=a6cd9bf4da" alt="Lukeの親子のカラー版。左が親、右が子ども" loading="lazy"></a><figcaption>左：Luke ／ 右：子ども版。配色検討用の別画像。</figcaption></figure></div>

diff --git a/stories/hello-mimo/styles.css b/stories/hello-mimo/styles.css
@@ -1,5 +1,5 @@
 :root{--ink:#594337;--paper:#fffcf7;--orange:#d85d32;background:var(--paper)}body{font-family:"Hiragino Maru Gothic ProN","Yu Gothic",sans-serif;line-height:1.9}.story-header{height:65px;position:sticky;top:0;z-index:10;background:#fffcf7f5;display:flex;align-items:center;justify-content:space-between;padding:0 5vw;border-bottom:1px solid #e9dfd1}.brand{font-weight:800;color:var(--ink);text-decoration:none;letter-spacing:.03em}.brand span{font-weight:400;font-size:.8em;margin-left:.35em}button{border:1px solid #ddcebd;background:transparent;border-radius:24px;padding:6px 14px;cursor:pointer;font-size:12px}.progress{position:sticky;top:65px;height:35px;z-index:10;display:flex;align-items:center;gap:18px;padding:0 5vw;background:#fffcf7f5;font-size:11px;letter-spacing:.08em}.track{height:2px;background:#eadfce;flex:1}.track span{display:block;background:var(--orange);height:100%;width:0}.panel{position:relative;min-height:calc(100svh - 100px);display:grid;grid-template-columns:.9fr 1.1fr;align-items:center;gap:3vw;padding:64px max(5vw,calc((100vw - 1280px)/2));scroll-margin-top:100px;border-bottom:0}.copy{padding:15px 0 25px 3vw;position:relative;z-index:1}h1,h2,p,figure{margin:0}h1{font-size:clamp(38px,4.6vw,70px);line-height:1.65;font-weight:700;letter-spacing:.06em}h1 em{font-style:normal;color:var(--orange)}h2{font-size:clamp(27px,3vw,45px);line-height:1.8;letter-spacing:.04em;font-weight:600}.eyebrow{font-size:11px;letter-spacing:.16em;color:#937c68;margin-bottom:26px}.lead{font-size:23px;line-height:2;margin-top:24px}.story-text{font-size:clamp(17px,1.65vw,23px);line-height:2.2;margin-top:30px}.start{display:inline-flex;gap:25px;align-items:center;color:var(--ink);text-decoration:none;border-bottom:1px solid #ba9175;padding:8px 0;margin-top:32px;font-size:14px}.start span{color:var(--orange)}figure{min-width:0;text-align:center}figure img{width:100%;height:auto;max-height:72svh;object-fit:contain;mix-blend-mode:multiply;display:block}figcaption{font-size:12px;letter-spacing:.15em;color:#987f6b;margin-top:12px}.tone-1,.tone-2,.tone-0{background:var(--paper)}
-#scene-7{background:#f0f3ed}#scene-9{background:#faf4e9}.reverse .copy{grid-column:2;grid-row:1}.reverse figure,.reverse .next{position:absolute;bottom:12px;left:50%;transform:translateX(-50%);padding:8px 20px;text-decoration:none;color:#94705a;font-size:22px}.afterword{padding:100px 24px;max-width:820px;margin:auto;scroll-margin-top:100px}.afterword h2{font-size:28px}.afterword>p:not(.eyebrow){margin-top:24px;font-size:15px;line-height:2.2}.end-links{display:flex;align-items:baseline;flex-wrap:wrap;gap:28px}.end-links>a{color:var(--ink);font-size:13px}.colophon{color:#967d68;font-size:11px!important}.large-text .story-text{font-size:clamp(22px,2.1vw,29px)}.large-text .panel{min-height:calc(100svh - 100px)}@media(max-width:700px){.panel{display:flex;flex-direction:column;gap:12px;padding:36px 24px 56px;justify-content:center}.copy{padding:0;width:100%;max-width:460px}.eyebrow{margin-bottom:14px}h1{font-size:42px}h2{font-size:28px}.lead{font-size:19px;margin-top:16px}.story-text{font-size:17px;margin-top:18px;line-height:2}.panel figure{width:100%;max-width:440px}.panel figure img{max-height:44svh}.cover figure img{max-height:35svh}.cover .start{margin-top:18px}.afterword{padding:64px 24px}.afterword h2{font-size:24px}}@media print{.story-header,.progress,.next,.start{display:none}.panel{min-height:0;height:95vh;break-after:page}.afterword{break-before:page}figure img{max-height:70vh}}
+#scene-7{background:#f0f3ed}#scene-9{background:#faf4e9}.reverse .copy{grid-column:2;grid-row:1}.reverse figure{grid-column:1;grid-row:1}.next{position:absolute;bottom:12px;left:50%;transform:translateX(-50%);padding:8px 20px;text-decoration:none;color:#94705a;font-size:22px}.afterword{padding:100px 24px;max-width:820px;margin:auto;scroll-margin-top:100px}.afterword h2{font-size:28px}.afterword>p:not(.eyebrow){margin-top:24px;font-size:15px;line-height:2.2}.end-links{display:flex;align-items:baseline;flex-wrap:wrap;gap:28px}.end-links>a{color:var(--ink);font-size:13px}.colophon{color:#967d68;font-size:11px!important}.large-text .story-text{font-size:clamp(22px,2.1vw,29px)}.large-text .panel{min-height:calc(100svh - 100px)}@media(max-width:700px){.panel{display:flex;flex-direction:column;gap:12px;padding:36px 24px 56px;justify-content:center}.copy{padding:0;width:100%;max-width:460px}.eyebrow{margin-bottom:14px}h1{font-size:42px}h2{font-size:28px}.lead{font-size:19px;margin-top:16px}.story-text{font-size:17px;margin-top:18px;line-height:2}.panel figure{width:100%;max-width:440px}.panel figure img{max-height:44svh}.cover figure img{max-height:35svh}.cover .start{margin-top:18px}.afterword{padding:64px 24px}.afterword h2{font-size:24px}}@media print{.story-header,.progress,.next,.start{display:none}.panel{min-height:0;height:95vh;break-after:page}.afterword{break-before:page}figure img{max-height:70vh}}
 
 
 
@@ -44,3 +44,13 @@
 
 /* Page links land directly, keeping speech and art in view together. */
 :root{scroll-behavior:auto}
+
+/* Keep artwork in the page flow, including when copy grows or stacks. */
+.panel{grid-template-columns:minmax(0,.9fr) minmax(0,1.1fr)}
+.copy{min-width:0;overflow-wrap:anywhere}
+.bubble-art{display:flex;flex-direction:column;align-items:center;gap:30px;padding-top:0}
+.bubble-art .speech-bubble,.bubble-art .thought-bubble{position:relative;inset:auto;max-width:100%;align-self:flex-end;margin-right:9%;font-size:clamp(16px,1.5vw,21px)}
+.bubble-art .thought-first{align-self:flex-start;margin-left:12%;margin-right:0}
+.bubble-art .thought-second{margin-right:2%;font-size:clamp(14px,1.3vw,18px)}
+.bubble-art img{flex:none}
+@media(max-width:700px){.bubble-art{padding-top:0}.bubble-art .thought-first{margin-left:7%}.bubble-art .speech-bubble{margin-right:5%}}

diff --git a/stories/hello-mimo/index.html b/stories/hello-mimo/index.html
@@ -1,4 +1,4 @@
-<!doctype html><html lang="ja"><head><meta charset="utf-8"><meta name="viewport" content="width=device-width,initial-scale=1"><meta name="theme-color" content="#fffcf7"><meta name="description" content="歌もおしゃべりも大好きなMimo。子どもの声や仕草を受け取り、ときには自分も助けを借りる、自己紹介の絵本。"><title>こんにちは、ミモです。 | HugMap Stories</title><link rel="stylesheet" href="../../shared/base.css"><link rel="stylesheet" href="styles.css"></head><body><header class="story-header"><a class="brand" href="#cover">HugMap <span>Stories</span></a><button id="textToggle" aria-pressed="false">文字を大きく</button></header><nav class="progress" aria-label="物語の進み具合"><span id="progressLabel">はじまり</span><span class="track"><span id="progressFill"></span></span><span id="progressCount">0 / 10</span></nav><main><section class="panel cover" id="cover" data-step="0"><div class="copy"><p class="eyebrow">HUGMAP · はじめましての絵本</p><h1>こんにちは、<br><em>ミモ</em>です。</h1><p class="lead">きみのおはなし、<br>聞かせてね。</p><a class="start" href="#scene-1">絵本をひらく <span>↓</span></a></div><figure><img id="coverMimo" src="assets/mimo-hello.png" alt="絵本を持ち、片翼を上げてあいさつするMimo" fetchpriority="high" width="1024" height="1536"><figcaption>みる。きく。いっしょに楽しむ。</figcaption></figure></section>
+<!doctype html><html lang="ja"><head><meta charset="utf-8"><meta name="viewport" content="width=device-width,initial-scale=1"><meta name="theme-color" content="#fffcf7"><meta name="description" content="歌もおしゃべりも大好きなMimo。子どもの声や仕草を受け取り、ときには自分も助けを借りる、自己紹介の絵本。"><title>こんにちは、ミモです。 | HugMap Stories</title><link rel="stylesheet" href="../../shared/base.css"><link rel="stylesheet" href="styles.css?3730cc56ad"></head><body><header class="story-header"><a class="brand" href="#cover">HugMap <span>Stories</span></a><button id="textToggle" aria-pressed="false">文字を大きく</button></header><nav class="progress" aria-label="物語の進み具合"><span id="progressLabel">はじまり</span><span class="track"><span id="progressFill"></span></span><span id="progressCount">0 / 10</span></nav><main><section class="panel cover" id="cover" data-step="0"><div class="copy"><p class="eyebrow">HUGMAP · はじめましての絵本</p><h1>こんにちは、<br><em>ミモ</em>です。</h1><p class="lead">きみのおはなし、<br>聞かせてね。</p><a class="start" href="#scene-1">絵本をひらく <span>↓</span></a></div><figure><img id="coverMimo" src="assets/mimo-hello.png" alt="絵本を持ち、片翼を上げてあいさつするMimo" fetchpriority="high" width="1024" height="1536"><figcaption>みる。きく。いっしょに楽しむ。</figcaption></figure></section>
 <section class="panel scene tone-1 " id="scene-1" data-step="1"><div class="copy"><p class="eyebrow" aria-label="1ページ">01</p><h2>みなさん、こんにちは。</h2><p class="story-text">わたしの なまえは、ミモです。<br><br>うたうのが すき。おしゃべりも すき。<br>そして、みんなの おはなしを<br>聞くのも、だいすき。</p></div><figure><img src="assets/mimo-hello.png" alt="お気に入りの絵本を持ってあいさつするMimo" loading="lazy" width="1024" height="1536"></figure><a class="next" href="#scene-2" aria-label="次のページへ">↓</a></section>
 <section class="panel scene tone-2 reverse" id="scene-2" data-step="2"><div class="copy"><p class="eyebrow" aria-label="2ページ">02</p><h2>いろんな おはなし、<br>聞こえてくるよ。</h2><p class="story-text">「あー」<br>あー。きこえたよ。<br>「うー」<br>うん、うん。<br>わたしも、おへんじ。</p></div><figure><img src="assets/mimo-voice-pingpong.png" alt="子どもとMimoの間を、声を表すオレンジの点が行き来する" loading="lazy" width="1254" height="1254"></figure><a class="next" href="#scene-imitation" aria-label="次のページへ">↓</a></section>
 <section class="panel scene tone-0" id="scene-imitation" data-step="3"><div class="copy"><p class="eyebrow" aria-label="3ページ">03</p><h2>きみが ばんざい。<br>わたしも ばんざい。</h2><p class="story-text">その うごき、おもしろいね。<br>わたしも、まねしてみるよ。<br><br>ふふ。おんなじだね。<br>からだでも、おはなし できるんだ。</p></div><figure><img src="assets/mimo-imitation-arms-up.png" alt="両手を上げる子どもを見て、ミモも両翼を上げてまねしている" loading="lazy" width="1254" height="1254"></figure><a class="next" href="#scene-3" aria-label="次のページへ">↓</a></section>
